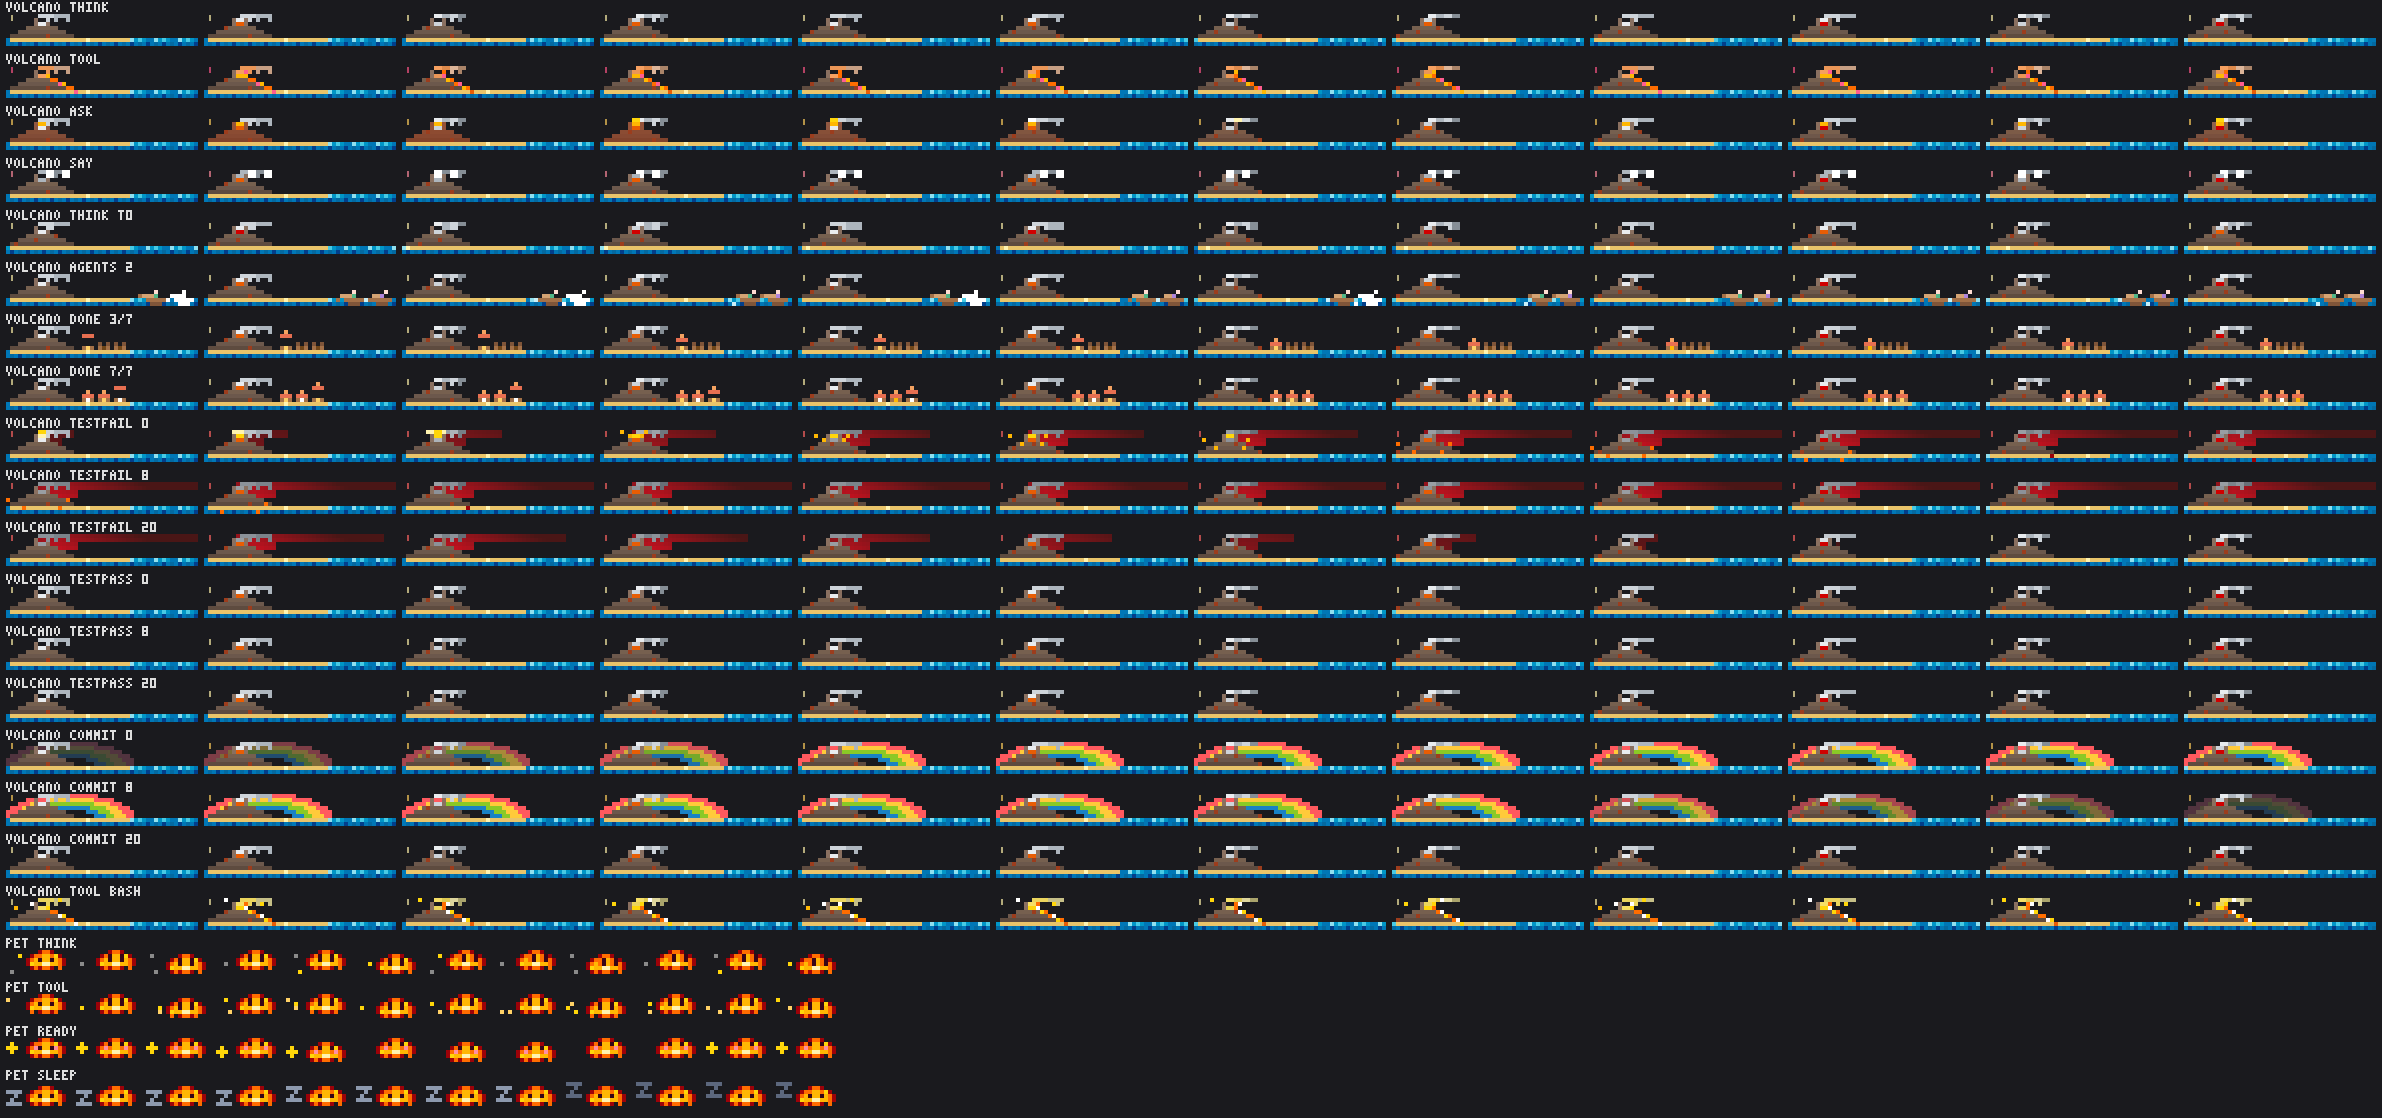
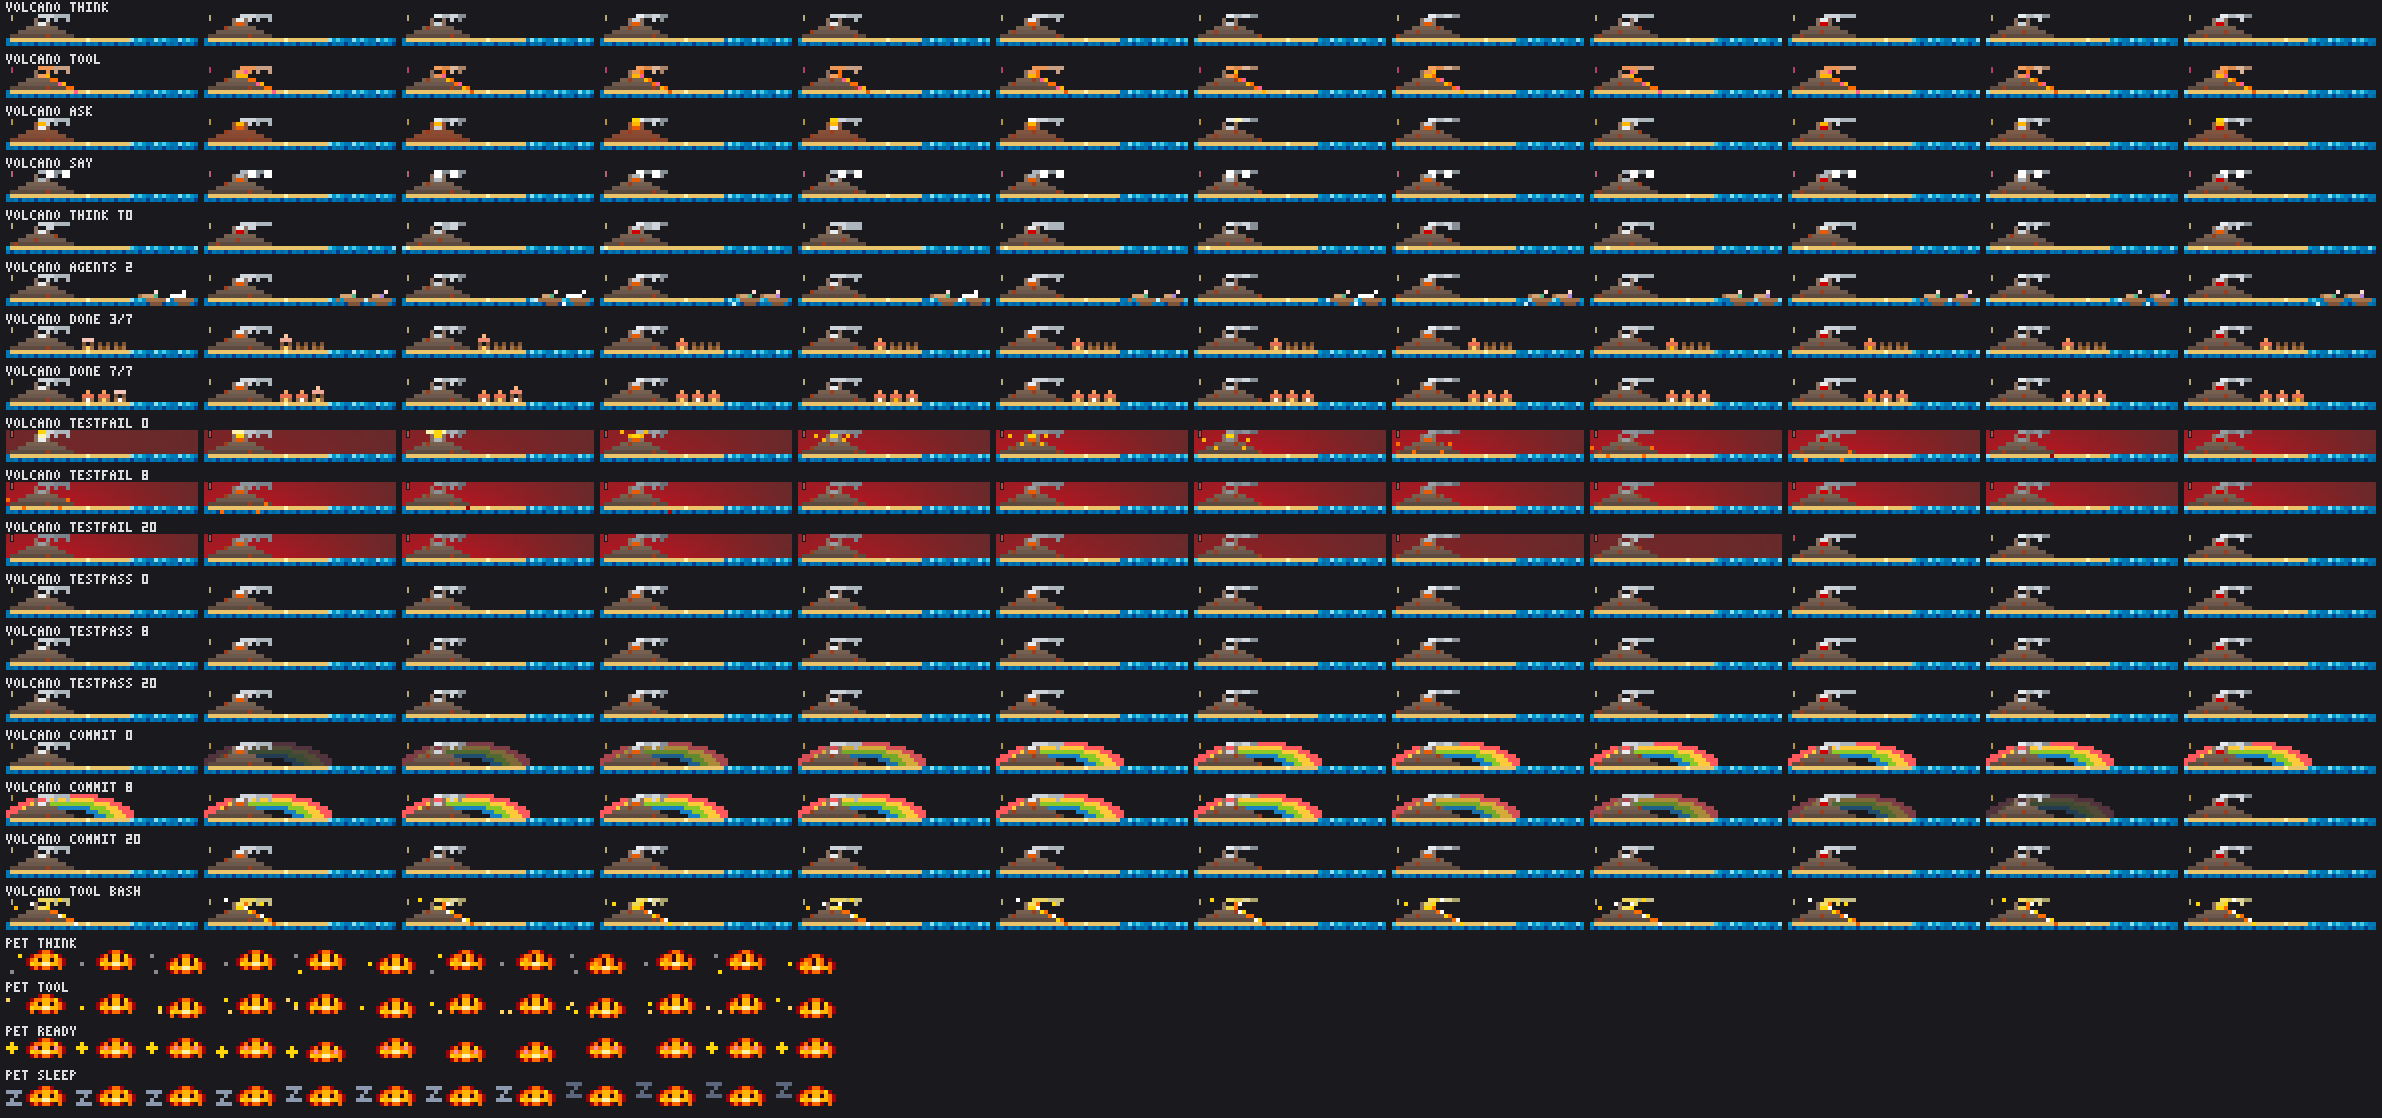
showtime: volcano review fixes — the testFail sky keeps one footprint (every empty pixel above the sand, behind every cue, roof and boat) from its first frame and only eases its colour in over six frames and out over six, nothing once it has eased out, its dimmest shade lifted to the #3a3a3a floor; 

diff --git a/showtime/hooks/themes/volcano.ts b/showtime/hooks/themes/volcano.ts
@@ -6,9 +6,9 @@
 // in the tool's colour; bash pulses faster and brighter and throws sparks. ask: the crater bubbles, the cone throbs;
 // say: smoke signals; wait: the crater cools, the plume greys. A hut per task on the shore (floor-scaled), roofed
 // when done, the newest roof dropping on; a rowing boat per agent in a fixed slot, flashing as it joins. testFail:
-// rocks arc out for twelve frames under a reddening sky; commit: a rainbow fades in and out over the island. Motion
-// rules: the plume's newest end and the crater's left horn are one run that never moves; the sky's glow widens a
-// column a frame from the crater's left column; lava, waves and the cone's shimmer only change colours.
+// rocks arc out for twelve frames as the whole sky reddens; commit: a rainbow fades in and out over the island. Motion
+// rules: the plume's newest end and the crater's left horn are one run that never moves; the red sky keeps one
+// footprint and only eases its colour; lava, waves and the cone's shimmer only change colours.
 import { canvas, cells, frame, mod, noise, plot, put } from '../cells'
 import type { Canvas, Grid } from '../cells'
 import { SCENE_ROWS } from '../draw'
@@ -22,8 +22,8 @@ const [RIM_Y, SAND_Y] = [2, 6]
 const CONE_HALF = [2, 4, 6, 8]
 /** Frames: an act's change, between puffs, a puff's life; lava cells; a greeting, a roof's drop, the 100% flare. */
 const [CHANGE, PUFF_GAP, PUFF_LIFE, FLOW_LEN, GREET, DROP, FLARE] = [4, 2, 10, 9, 8, 6, 16]
-/** testFail: the rocks' flight, the sky's glow (frames), its widest, its middle; commit: the rainbow's frames. */
-const [ROCK_FRAMES, GLOW_FRAMES, GLOW_MAX, GLOW_X, BOW_FRAMES] = [12, 30, 14, CX + 3, 20]
+/** testFail: the rocks' flight, the sky's glow (frames), its easing in and out; commit: the rainbow's frames. */
+const [ROCK_FRAMES, GLOW_FRAMES, GLOW_IN, GLOW_OUT, BOW_FRAMES] = [12, 30, 6, 6, 20]
 /** The rocks: columns a frame, and height by frame (never above row 0): the fast ones thrown high, the slow ones
  * low (off row 0 before a bash spark is born beside them). */
 const ARC_HIGH = [1, 0, 0, 0, 1, 1, 2, 3, 4, 5, 6, 7]
@@ -31,7 +31,7 @@ const ARC_LOW = [1, 0, 0, 1, 2, 3, 4, 5, 6, 7]
 const ROCKS = [[-1, ARC_HIGH], [-0.5, ARC_LOW], [0.5, ARC_LOW], [0.75, ARC_HIGH]] as const
 /** A boat's oar blade by stroke phase (column, pixel row); the newest roof's top row by doneAge as it drops. */
 const BLADE = [[0, 5], [0, 6], [1, 6], [1, 5]] as const
-const ROOF_TOP = [1, 1, 1, 2, 2, 2]
+const ROOF_TOP = [2, 2, 2, 3, 3, 3]
 /** The lava's path down the right slope from the rim: each cell (column, pixel row) on the cone's surface. */
 const FLOW: readonly (readonly [number, number])[] = [[CX + 1, 1], [CX + 1, 2], [CX + 2, 3], [CX + 3, 3],
   [CX + 4, 4], [CX + 5, 4], [CX + 6, 5], [CX + 7, 5], [CX + 8, 6]]
@@ -46,7 +46,7 @@ const SMOKE = ['#e9ecef', '#ced4da', '#adb5bd', '#868e96']
 const [POST, WALL, DOOR, ROOF, PEAK, WINDOW] = ['#7f5539', '#a47148', '#6f4518', '#e76f51', '#f4a261', '#ffd166']
 const [HULL, KEEL, OAR, SKIN, FOAM] = ['#a47148', '#7f5539', '#d4a373', '#ffddd2', '#caf0f8']
 const HUES = ['#52b788', '#b185db', '#4cc9f0', '#f4a261']
-const [SKY_DIM, SKY_RED, ROCK_COOL, FADE_TO] = ['#4a1616', '#c1121f', '#9d0208', '#262a36']
+const [SKY_DIM, SKY_RED, ROCK_COOL, FADE_TO] = ['#662a2a', '#c1121f', '#9d0208', '#262a36']
 const BOW = ['#ff595e', '#ffca3a', '#8ac926', '#1982c4']
 const TOOL_INK: Record<ToolKind, string> = { bash: PALE, edit: '#ff9e64', read: '#e0af68', search: '#7dcfff',
   agent: '#bb9af7', web: '#7aa2f7', other: '#ff5d8f' }
@@ -67,25 +67,26 @@ function layout(w: number): { boats: number; huts: number; shore: number } {
   return { boats, huts, shore: HUT0 + HUT_P * Math.max(1, huts) }
 }
 
-/** The sky's glow on a failed test, `age` frames in: from the crater's left column (clear of the bash sparks and
- * the rocks flying left) it widens a column a frame to GLOW_MAX and back, and across the top rows to the right
- * four a frame; reddest low and near the crater; in pixel rows 2-3 it stops short of the roofs. */
+/** The sky's glow on a failed test, `age` frames in: every empty pixel above the sand (drawn last, so behind every
+ * cue, roof and boat), the same footprint every frame; only its colour eases in over GLOW_IN frames and out over
+ * GLOW_OUT, reddest near the crater and low, and nothing at all once it has eased out. */
 function skyGlow(cv: Canvas, age: number): void {
-  const r = Math.min(age + 1, GLOW_FRAMES - 1 - age, GLOW_MAX)
-  const k = Math.min(1, r / 6)
-  for (let y = 0; y < 4; y++) {
-    const right = y < 2 ? 4 * r : Math.min(r, CX + 8 - GLOW_X)
-    for (let x = GLOW_X - Math.min(r, GLOW_X - CX + 1); x <= GLOW_X + right; x++) {
-      const near = 1 - Math.abs(x - GLOW_X) / (2 * GLOW_MAX) - (3 - y) * 0.08
-      plot(cv, x, y, mix(SKY_DIM, SKY_RED, Math.max(0, k * near)))
+  const k = Math.min(1, (age + 1) / GLOW_IN, (GLOW_FRAMES - 1 - age) / GLOW_OUT)
+  if (k <= 0) return
+  for (let y = 0; y < SAND_Y; y++) {
+    for (let x = 0; x < cv.w; x++) {
+      if (cv.px[y * cv.w + x]) continue
+      const near = Math.max(0, 1 - Math.abs(x - CX) / 40) * (0.7 + 0.06 * y)
+      plot(cv, x, y, mix(SKY_DIM, SKY_RED, k * near))
     }
   }
 }
 
 /** The rainbow over the island on a commit, `age` frames in: four bands on an arc from shore to shore, fading in
- * over five frames and out over the last five. */
+ * from nothing over five frames and back to nothing over the last five. */
 function rainbow(cv: Canvas, age: number, shore: number): void {
-  const k = Math.min(1, (age + 1) / 5, (BOW_FRAMES - age) / 5)
+  const k = Math.min(1, age / 5, (BOW_FRAMES - 1 - age) / 5)
+  if (k <= 0) return
   const [c, a, b] = [shore / 2, shore / 2 + 1, 6.6]
   for (let y = 0; y < SAND_Y; y++) {
     for (let x = 0; x < Math.min(cv.w, shore + 2); x++) {
@@ -178,10 +179,12 @@ function huts(cv: Canvas, t: number, s: Signals, fit: number): void {
     const x = HUT0 + HUT_P * k
     const roofed = k < lit
     const top = roofed && fresh && k === lit - 1 ? ROOF_TOP[s.doneAge] ?? 3 : 3
-    if (!roofed || top >= 3) for (const dx of [0, 2]) plot(cv, x + dx, 4, POST)
+    for (const dx of [0, 2]) plot(cv, x + dx, 4, POST)
     if (roofed) {
-      if (s.doneAge > 0 || !fresh || k !== lit - 1) plot(cv, x + 1, top, PEAK)
-      for (let dx = 0; dx < 3; dx++) plot(cv, x + dx, top + 1, ROOF)
+      const newest = fresh && k === lit - 1
+      const pale = newest && s.doneAge < 3 ? 0.6 - 0.2 * s.doneAge : 0
+      if (!newest || s.doneAge > 0) plot(cv, x + 1, top, mix(PEAK, WHITE, pale))
+      for (let dx = 0; dx < 3; dx++) plot(cv, x + dx, top + 1, mix(ROOF, WHITE, pale))
     }
     const win = flare && mod(t + k, 2) === 0 ? WHITE : mod(t + 5 * k, 12) < 2 ? LAVA_HI : WINDOW
     for (let dx = 0; dx < 3; dx++) plot(cv, x + dx, 5, dx !== 1 ? WALL : roofed ? win : DOOR)
@@ -189,11 +192,12 @@ function huts(cv: Canvas, t: number, s: Signals, fit: number): void {
 }
 
 /** A rowing boat facing the island at `x` (seven columns: the oar's sweep, then the hull), stroke phase `p`: the
- * oar level, dipped, pulled back under, lifted; the rower leans back on the pull. White while it greets. */
+ * oar level, dipped, pulled back under, lifted; the rower leans back on the pull. Its rower and oar flash white
+ * while it greets. */
 function boat(cv: Canvas, x: number, p: number, hue: string, flash: boolean): void {
   const at = (dx: number, y: number, c: string) => plot(cv, x + dx, y, flash ? WHITE : c)
-  for (let dx = 2; dx < 7; dx++) at(dx, 6, HULL)
-  for (let dx = 3; dx < 6; dx++) at(dx, 7, KEEL)
+  for (let dx = 2; dx < 7; dx++) plot(cv, x + dx, 6, HULL)
+  for (let dx = 3; dx < 6; dx++) plot(cv, x + dx, 7, KEEL)
   at(4, 5, hue)
   at(p < 2 ? 4 : 5, 4, SKIN)
   at(3, 5, OAR)
@@ -233,7 +237,6 @@ export function volcanoScene(t: number, w: number, s: Signals): Grid {
   const tool = s.act === 'tool' ? s.tool ?? 'other' : undefined
   const bash = tool === 'bash'
   // Layer 1: the sky (red in an eruption, a rainbow on a commit), behind everything.
-  if (fail >= 0) skyGlow(cv, fail)
   if (bow >= 0) rainbow(cv, bow, lay.shore)
   // Layer 2: the island, its crater lit by the act: brighter over CHANGE frames of a tool, throbbing on an ask.
   const lit = tool ? Math.min(1, (s.actAge + 1) / CHANGE) : 0
@@ -245,7 +248,7 @@ export function volcanoScene(t: number, w: number, s: Signals): Grid {
   if (tool) lava(cv, t, Math.min(FLOW_LEN, s.actAge >> 1), bash, TOOL_INK[tool])
   sea(cv, t)
   // Layer 3: the plume, lit from below by a tool (over CHANGE frames of actAge), dimmed in an eruption.
-  const dark = fail >= 0 ? Math.min(1, fail / 4, (GLOW_FRAMES - fail) / 6) * 0.5 : 0
+  const dark = fail >= 0 ? Math.min(1, fail / 4, (GLOW_FRAMES - fail) / GLOW_OUT) * 0.5 : 0
   plume(cv, t, s.act, bash ? CORE : LAVA, lit, dark)
   if (bash && s.actAge >= 2) sparks(cv, t)
   // ask: the crater bubbles over eight frames, growing in, swelling, popping.
@@ -268,9 +271,12 @@ export function volcanoScene(t: number, w: number, s: Signals): Grid {
     boat(cv, x, mod(t + i, 4), HUES[i]!, greet)
   }
 
+  // testFail: the sky reddens behind everything, its whole footprint from the start, only its colour easing.
+  if (fail >= 0) skyGlow(cv, fail)
   const g = cells(cv)
   const [text, c] = sign(s, t, fail >= 0 ? 'fail' : bow >= 0 ? 'commit' : undefined)
-  put(g, SIGN_X, 0, text, { c, b: true })
+  // The sign keeps the sky behind it (red in an eruption).
+  put(g, SIGN_X, 0, text, { c, b: true, bg: g[0]![SIGN_X]!.bg ?? g[0]![SIGN_X]!.c })
   return g
 }
 
